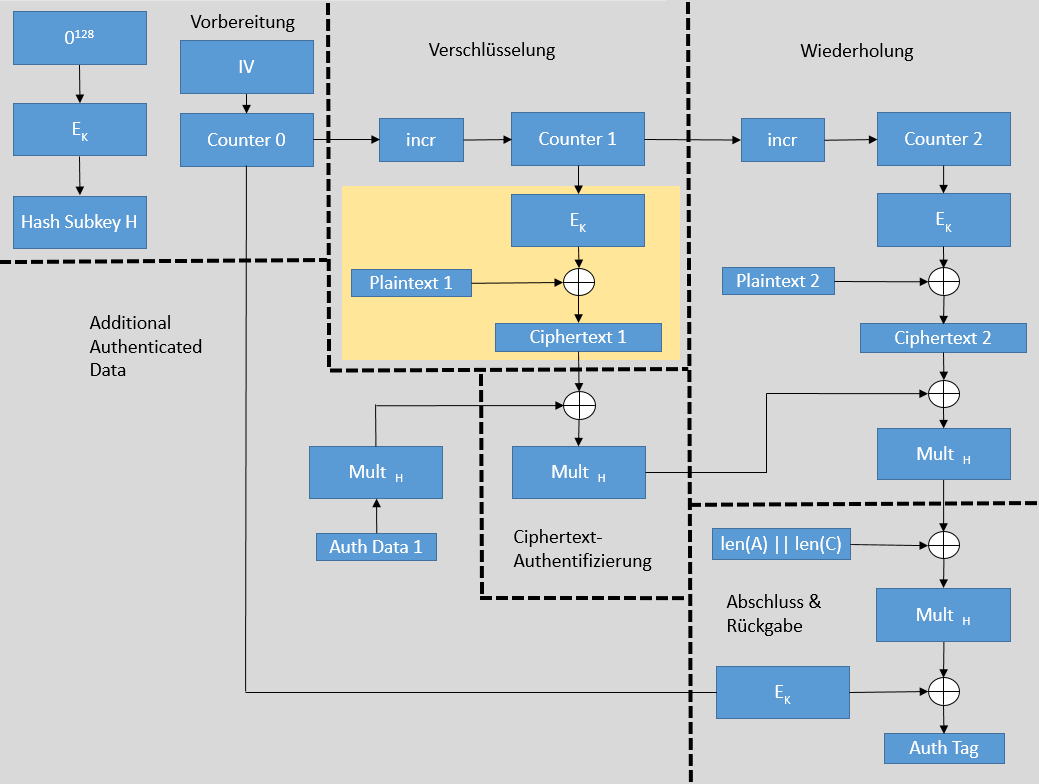
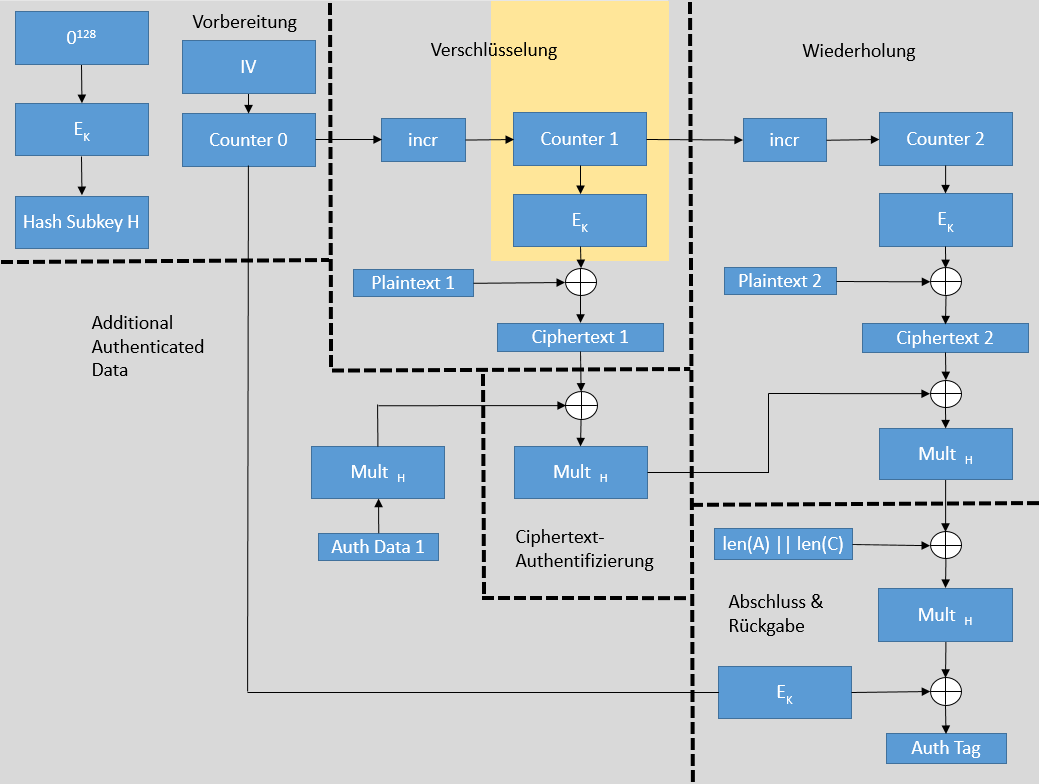
Code Review StepPage

diff --git a/PresentationLayer/Tutorials/StepByStepResources.xaml b/PresentationLayer/Tutorials/StepByStepResources.xaml
@@ -1,31 +1,92 @@
 <ResourceDictionary xmlns="http://schemas.microsoft.com/winfx/2006/xaml/presentation"
                     xmlns:x="http://schemas.microsoft.com/winfx/2006/xaml"
-                    xmlns:system="clr-namespace:System;assembly=mscorlib"
-                    xmlns:local="clr-namespace:EP_HSRlearnIT" >
+                    xmlns:system="clr-namespace:System;assembly=mscorlib">
 
     <system:String x:Key="Step1">Einleitung: Weshalb AES-GCM?
-Der Galois/Counter Mode der AES-Verschlüsselung ermöglicht eine Verschlüsselung des Plaintextes 
-sowie eine Authentifizierung des Ciphertextes und zusätzlichen Daten. 
-Eine solche Art der Verschlüsselung und Authentifizierung nennt man auch Authenticated Encryption with Associated Data (AEAD).
-Schritt 1: Vorbereitung
-Schritt 2: Verschlüsselung 
-Schritt 3: Additional Authenticated Data 
-Schritt 4: Ciphertext-Authentifizierung
-Schritt 5: Wiederholung 
-Schritt 6: Abschluss und Rückgabe
+        Der Galois/Counter Mode der AES-Verschlüsselung ermöglicht eine Verschlüsselung des Plaintextes 
+        sowie eine Authentifizierung des Ciphertextes und zusätzlichen Daten. 
+        Eine solche Art der Verschlüsselung und Authentifizierung nennt man auch Authenticated Encryption with Associated Data (AEAD).
+        Schritt 1: Vorbereitung
+        Schritt 2: Verschlüsselung 
+        Schritt 3: Additional Authenticated Data 
+        Schritt 4: Ciphertext-Authentifizierung
+        Schritt 5: Wiederholung 
+        Schritt 6: Abschluss und Rückgabe
     </system:String>
     <system:String x:Key="Step2">Vorbereitung:
-Der Hash-Subkey H wird berechnet. Dazu wird ein Block von 128 Nullen (0128) mit dem Schlüssel K AES verschlüsselt. 
-Der Subkey wird für die Berechnung des MAC, also für die Authentifizierung, benötigt. In AES-GCM wird dieser MAC Tag genannt.
+        Der Hash-Subkey H wird berechnet. Dazu wird ein Block von 128 Nullen (0128) mit dem Schlüssel K AES verschlüsselt. 
+        Der Subkey wird für die Berechnung des MAC, also für die Authentifizierung, benötigt. In AES-GCM wird dieser MAC Tag genannt.
     </system:String>
     <system:String x:Key="Step3">Der «Counter 0»-Block wird aus dem Initialisierungsvektor (IV) hergeleitet. 
-Dazu wird zum IV ein Padding hinzugefügt, so dass schlussendlich ein Block mit 128Bit resultiert.
+        Dazu wird zum IV ein Padding hinzugefügt, so dass schlussendlich ein Block mit 128Bit resultiert.
     </system:String>
-    <system:String x:Key="Step4">
-        Verschlüsselung:
-Auf den «Counter 0»-Block wird eine Increment-Funktion angewendet, woraus der «Counter 1» resultiert.
+    <system:String x:Key="Step4">Verschlüsselung:
+        Auf den «Counter 0»-Block wird eine Increment-Funktion angewendet, woraus der «Counter 1» resultiert.
     </system:String>
+    <system:String x:Key="Step5">Der «Counter 1»-Block wird anschliessend mit dem Schlüssel K AES-verschlüsselt.
+    </system:String>
+    <system:String x:Key="Step6">Der Plaintext wird in 128Bit-Blöcke aufgeteilt. Der erste Plaintext-Block wird mit dem zuvor AES-verschlüsselten «Counter 1»-Block XOR-verknüpft.
+        Daraus entsteht der erste Ciphertext-Block.
+    </system:String>
+    <system:String x:Key="Step7">Additional Authenticated Data
+        Die Additional Authenticated Data (AAD) ist jener Teil der Eingabedaten, welcher durch den AES-GCM-Algorithmus zwar Authentifiziert, aber nicht verschlüsselt wird.
+        Die Eingabe dieser Daten ist optional. Die Authentizität wird durch die Bildung eines MAC gewährleistet.
+    </system:String>
+    <system:String x:Key="Step8">Die Generierung des MAC geschieht durch die Multiplikation der AAD in einem Galois-Feld mit dem zu Beginn berechneten Hash-Subkey H.
+        Dabei steht MultH für die Multiplikation innerhalb des Galois-Feldes. Die dabei durchgeführten Berechnungen sind nicht Bestandteil dieser Anleitung.
+    </system:String>
+    <system:String x:Key="Step9">Ein Beispiel für AAD ist der Versand von Daten über einen unsicheren Kanal.
+        Die Payload wird verschlüsselt und authentifiziert, die IP-Adressen jedoch nur authentifiziert.
+        Diese dürfen für die Übertragung nicht verschlüsselt werden, da dem Router das Ziel sonst nicht bekannt ist.
+        Werden keine Daten verschlüsselt, sondern nur die Integritätsprüfung durchlaufen, spricht man von einem Galois Message Authentication Code (GMAC).
+    </system:String>
+    <system:String x:Key="Step10">Ciphertext – Authentifizierung
+        Die im vorherigen Schritt berechneten Daten aus der Galois-Feld Multiplikation werden mit dem ersten Ciphertext-Block mittels XOR verknüpft.
+    </system:String>
+    <system:String x:Key="Step11">Das Resultat dieser XOR-Verknüpfung wird ebenfalls wieder in einem Galois-Feld mit dem Hash-Subkey H multipliziert.
+    </system:String>
+    <system:String x:Key="Step12">Wiederholung
+	    Der Schritt Verschlüsselung, sowie der Schritt Ciphertext-Authentifizierung, werden nun so lange wiederholt, bis alle 128Bit-Blöcke des Plaintextes verschlüsselt sind
+        und der MAC darüber berechnet wurde. Ist der letzte Plaintext-Block kleiner als 128Bit wird dessen Grösse zur Berechnung verwendet.
+    </system:String>
+    <system:String x:Key="Step13">Abschluss und Rückgabe
+        Damit keine Attacken auf den MAC, welcher auf einer variablen Anzahl Input-Bits basiert, gemacht werden können, wird sowohl die Länge der AAD (len(A)),
+        als auch die Ciphertext-Länge (len(C)) mitauthentifiziert. Dazu werden die beiden Längen, in 64Bit-Repräsentation, aneinandergehängt.
+        Es folgt eine XOR-Verknüpfung mit dem Resultat aus der Galois-Feld Multiplikation des allerletzten Ciphertextes.
+        Nach der Verknüpfung wird dieser Wert nochmals in einem Galois-Feld mit dem Hash-Subkey multipliziert.
+    </system:String>
+    <system:String x:Key="Step14">Da der IV ebenfalls authentifiziert werden soll, und dieser bereits im «Counter 0»-Block enthalten ist,
+        wird dieser Block ebenfalls in den MAC miteinberechnet. Dies geschieht indem der «Counter 0»-Block zuerst, wie alle anderen Blöcke, mit dem Schlüssel K AES verschlüsselt wird.
+        Anschliessend wird auf diese AES Verschlüsselung und das Resultat der vorhergehenden Galois-Multiplikation die XOR-Funktion angewendet.
+    </system:String>
+    <system:String x:Key="Step15">Der berechnete MAC, bei AES-GCM Tag genannt, ist nun fast berechnet. Es findet nur noch ein Truncating, also eine Verkürzung, 
+        der Bit-Sequenz auf die gewünschte Länge statt. Dazu wird die verlangte Anzahl Most Significant Bits aus dem Resultat der letzten XOR-Verknüpfung verwendet.
+    </system:String>
+    <system:String x:Key="Step16">Zuletzt werden Ciphertext und Authentication Tag zurückgegeben.
+        Für die Entschlüsselung und Überprüfung des MAC wird nebst diesen beiden Werten auch der IV und die AAD benötigt.
+        Ersterer für die erneute Berechnung aller Counter, der Zweite für die Berechnung und den anschliessenden Vergleich mit dem MAC.
+        Der Ciphertext wird am Ende dieselbe Länge wie der zu Beginn eingegebene Plaintext besitzen.
+    </system:String>
+    <system:String x:Key="Step17">Erweiterung/Zu beachten:
+        Der Initialisierungsvektor muss unique sein, ansonsten besteht die Möglichkeit Rückschlüsse auf den Plaintext zu machen. 
+        Dies deshalb, weil zwei gleiche Counter-Blöcke auch genau gleich verschlüsselt werden. Unterschiede im Ciphertext stammen allein daher,
+        dass Unterschiede im Plaintext vorhanden sind.
 
+        Die Grösse des zu verschlüsselnden Plaintextes pro IV ist genau aus diesem Grund beschränkt. Werden nämlich zu viele Counter-Blöcke gebildet
+        steigt die Wahrscheinlichkeit einer Wiederholung der Bit-Sequenzen immer mehr an. Der Plaintext darf deshalb eine Grösse von 64GB nicht übersteigen.
+    </system:String>
+    <system:String x:Key="Step18">Rückblick:
+        Der AES-GCM Algorithmus bietet eine Möglichkeit für die gleichzeitige Verschlüsselung und Authentifizierung von Plaintext.
+        Ein grosser Vorteil dabei ist die Geschwindigkeit. Einerseits können alle Counter-Blöcke vorberechnet werden, sobald der IV und die
+        Plaintext-Länge bekannt sind. Andererseits kann die Authentifizierung von Ciphertext-Blöcken (grün markiert, mit Input Plaintext X) und die
+        Verschlüsselung von weiteren Plaintext-Blöcken (orange markiert, mit Input Plaintext X + 1) unabhängig voneinander, und somit parallel, ablaufen.
+    </system:String>
+    <system:String x:Key="Step19">Weiter bietet die Verwendung des Counter-Block Mode (CTR) folgenden Vorteil gegenüber dem Electronic Codebook Mode (ECB-Mode): 
+        Wird beispielsweise ein Bild, mit vielen gleichen Farbpunkten, verschlüsselt, so sehen die Plaintext-Blöcke mit gleichen Farbpunkten nach
+        der Verschlüsselung beim ECB-Mode alle gleich aus. Beim Counter-Block Mode wird dies mittels jeweils unterschiedlichen Counter-Blöcken
+        verhindert und es können beispielsweise bei Bildern keine Muster mehr erkannt werden.
+    </system:String>
+    
     <system:String x:Key="VorbereitungText">
         Erklärung zu Vorbereitung
     </system:String>

diff --git a/PresentationLayer/Tutorials/StepPage.xaml b/PresentationLayer/Tutorials/StepPage.xaml
@@ -3,7 +3,6 @@
       xmlns:x="http://schemas.microsoft.com/winfx/2006/xaml"
       xmlns:mc="http://schemas.openxmlformats.org/markup-compatibility/2006" 
       xmlns:d="http://schemas.microsoft.com/expression/blend/2008" 
-      xmlns:local="clr-namespace:EP_HSRlearnIT.PresentationLayer.Tutorials"
       mc:Ignorable="d" 
       d:DesignHeight="300" d:DesignWidth="300"
       Title="StepPage">

diff --git a/PresentationLayer/Tutorials/StepPage.xaml.cs b/PresentationLayer/Tutorials/StepPage.xaml.cs
@@ -1,21 +1,16 @@
 using System.Windows;
 using System;
-using System.Windows.Controls;
-using System.Windows.Media;
 using System.Windows.Media.Imaging;
 using EP_HSRlearnIT.BusinessLayer.UniversalTools;
 
 namespace EP_HSRlearnIT.PresentationLayer.Tutorials
 {
-    /// <summary>
-    /// Interaction logic for StepPage.xaml
-    /// </summary>
-    public partial class StepPage : Page
+    public partial class StepPage
     {
         #region Private Members
         private int _step = 1;
         private const int StepMin = 1;
-        private const int StepMax = 3; //TODO: Change max. Steps
+        private const int StepMax = 19;
 
         #endregion
 
@@ -24,13 +19,13 @@ namespace EP_HSRlearnIT.PresentationLayer.Tutorials
         public StepPage()
         {
             InitializeComponent();
-            var progress = Progress.GetProgress("CurrentStep");
+            var progress = Progress.GetProgress("StepPage_CurrentStep");
             if(progress != null)
             {
                 _step = Convert.ToInt32(progress);      
             }
-            
-            ReplaceText(_step);
+
+            ReplaceContent(_step);
         }
         #endregion
 
@@ -39,21 +34,20 @@ namespace EP_HSRlearnIT.PresentationLayer.Tutorials
 
         private void OnPreviousStepButton_Click(object sender, RoutedEventArgs e)
         {
-            ReplaceText(--_step);
-            Progress.SaveProgress("StepPage_StepImage", _step);
+            ReplaceContent(--_step);
+            Progress.SaveProgress("StepPage_CurrentStep", _step);
         }
 
         private void OnNextStepButton_Click(object sender, RoutedEventArgs e)
         {
-            ReplaceText(++_step);
-            Progress.SaveProgress("StepPage_StepImage", _step);
+            ReplaceContent(++_step);
+            Progress.SaveProgress("StepPage_CurrentStep", _step);
         }
 
-        private void ReplaceText(int stepNumber)
+        private void ReplaceContent(int stepNumber)
         {
             switch(stepNumber)
             {
-
                 case StepMin:
                     PreviousStepButton.IsEnabled = false;
                     NextStepButton.IsEnabled = true;
@@ -71,7 +65,6 @@ namespace EP_HSRlearnIT.PresentationLayer.Tutorials
             StepDescriptionBox.Text = Application.Current.FindResource("Step" + stepNumber) as string;
             StepImage.Source = new BitmapImage(new Uri(@"/Images/Step" + stepNumber + ".png", UriKind.RelativeOrAbsolute));
             StepTitle.Text = "Schritt " + stepNumber;
-
         }
         #endregion
     }
